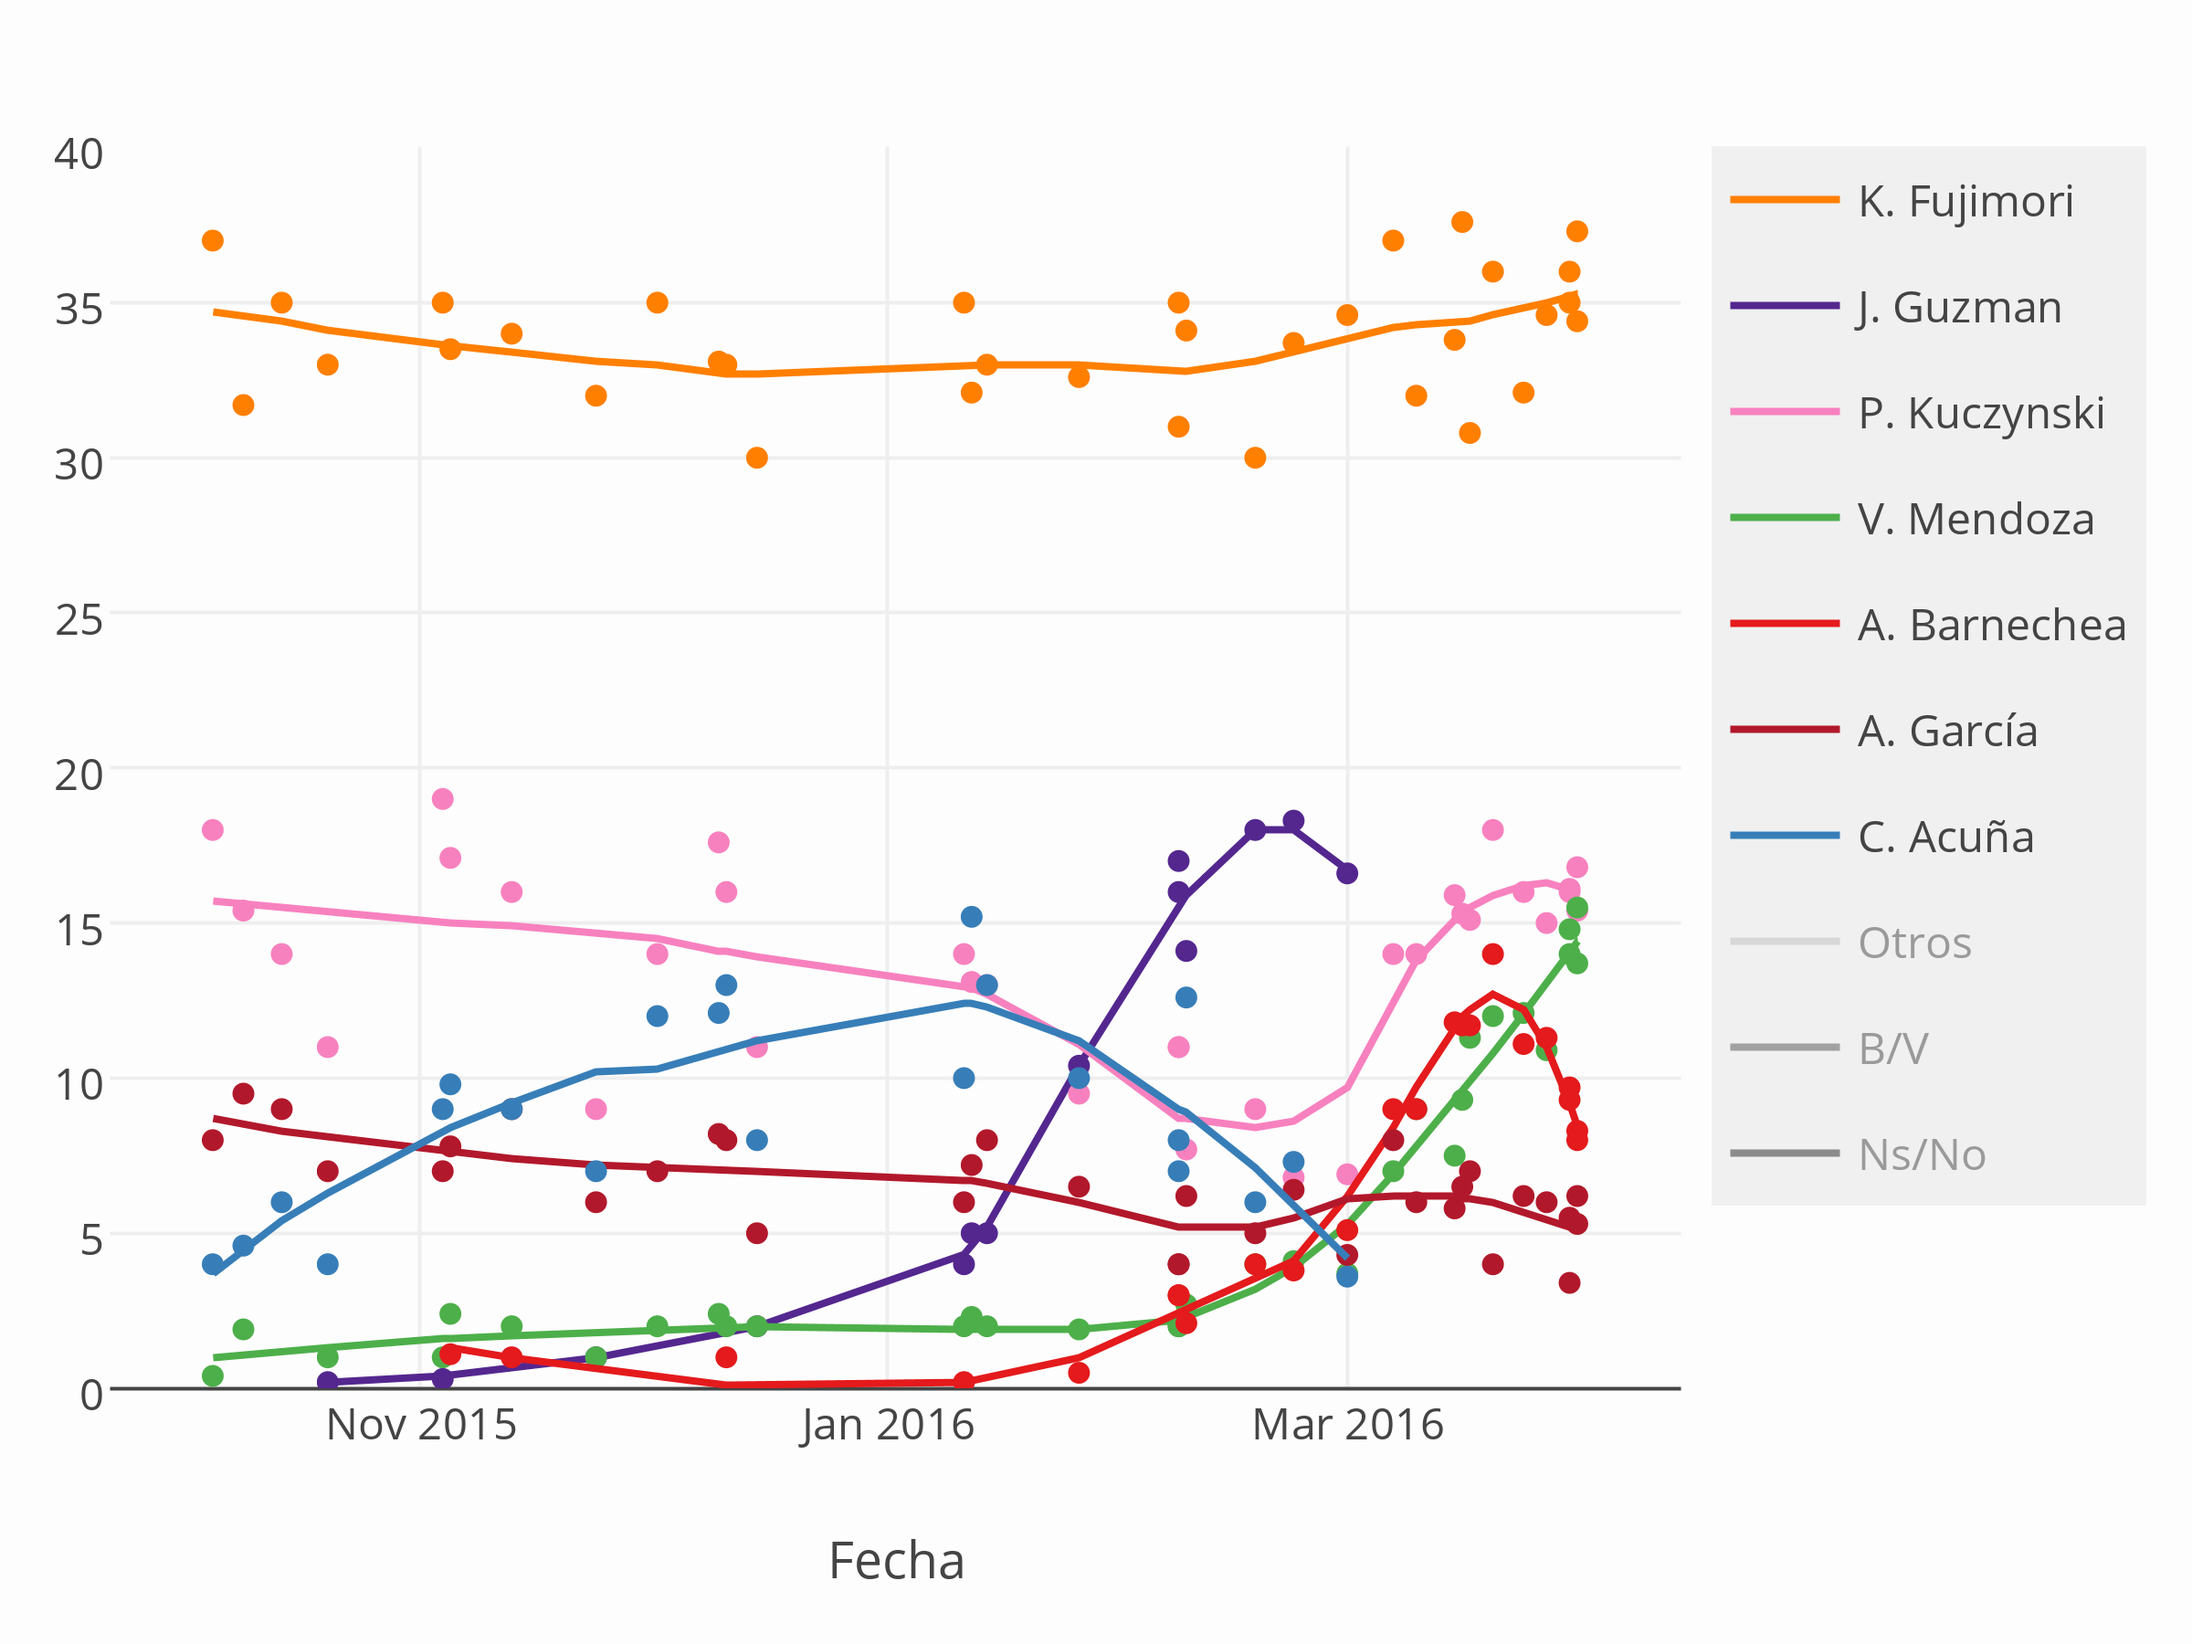
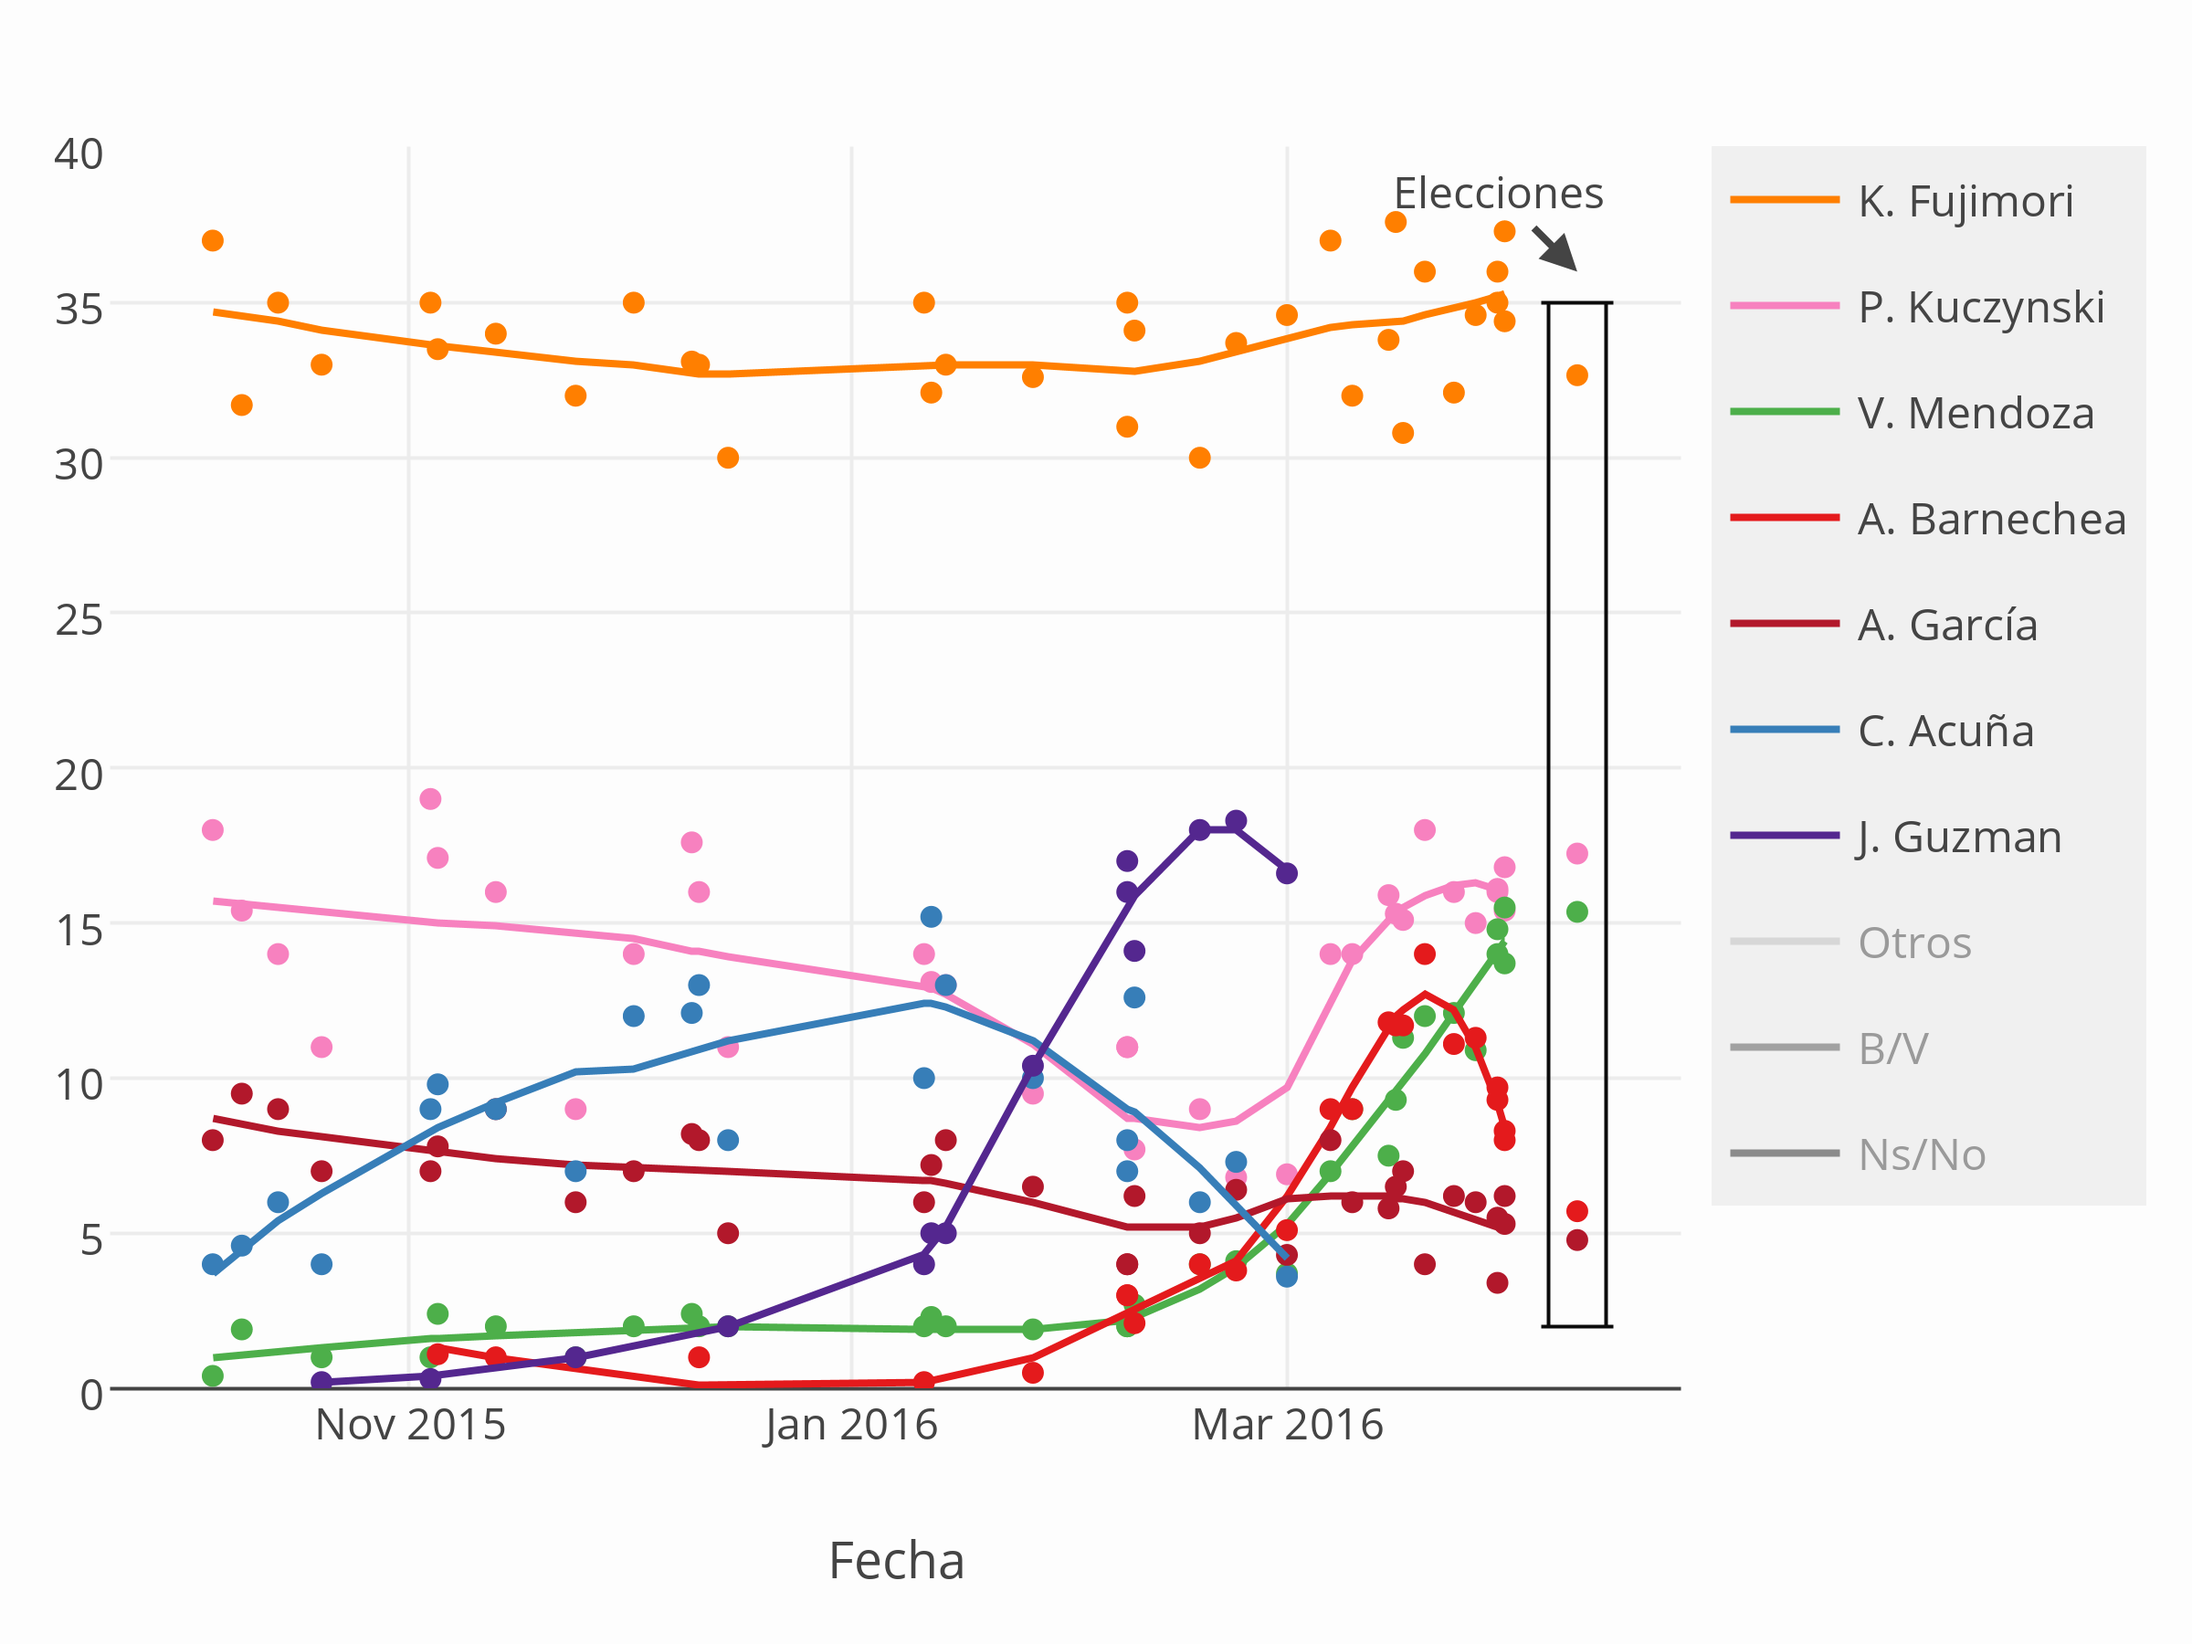
graficoActualizado

diff --git a/_posts/2016-04-30-Elecciones-presidenciales-2016.md b/_posts/2016-04-30-Elecciones-presidenciales-2016.md
@@ -24,7 +24,7 @@ breadcrumb: true
 
 
 
-El siguiente gráfico combina las encuestas de intención de voto. Actualizado el 10-04-2016.
+El siguiente gráfico combina las encuestas de intención de voto. Actualizado el 30-04-2016.
 
 
 
@@ -43,7 +43,7 @@ $('.myIframe').css('height', $(window).height()+'px');
 
 ## Resumen
 
-Estimado de »Resultados.pe« al cierre del trabajo de campo de la encuesta más reciente: 31-03-2016. 
+Estimado de »Resultados.pe« al cierre del trabajo de campo de la encuesta más reciente: 10-04-2016. 
 
 <iframe src="https://plot.ly/~AlejandroKantor/380.embed?link=False"  style="width: 100%" frameBorder="0" height="350" scrolling="no" seamless="seamless" 
 class="myIframe">
